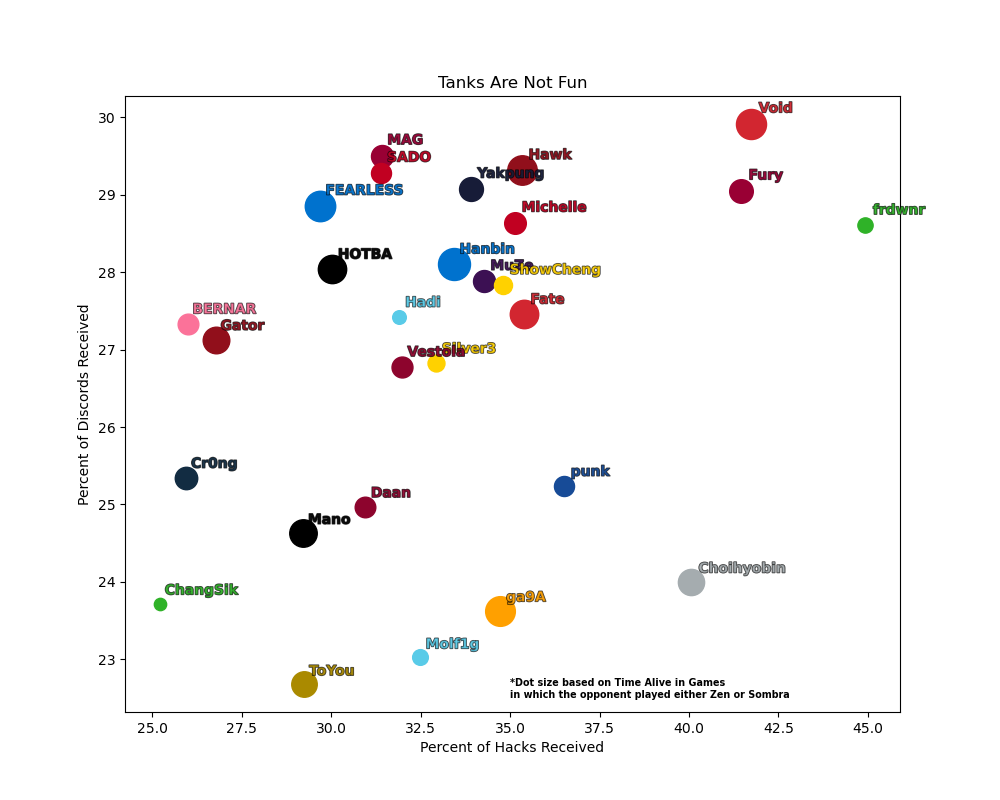
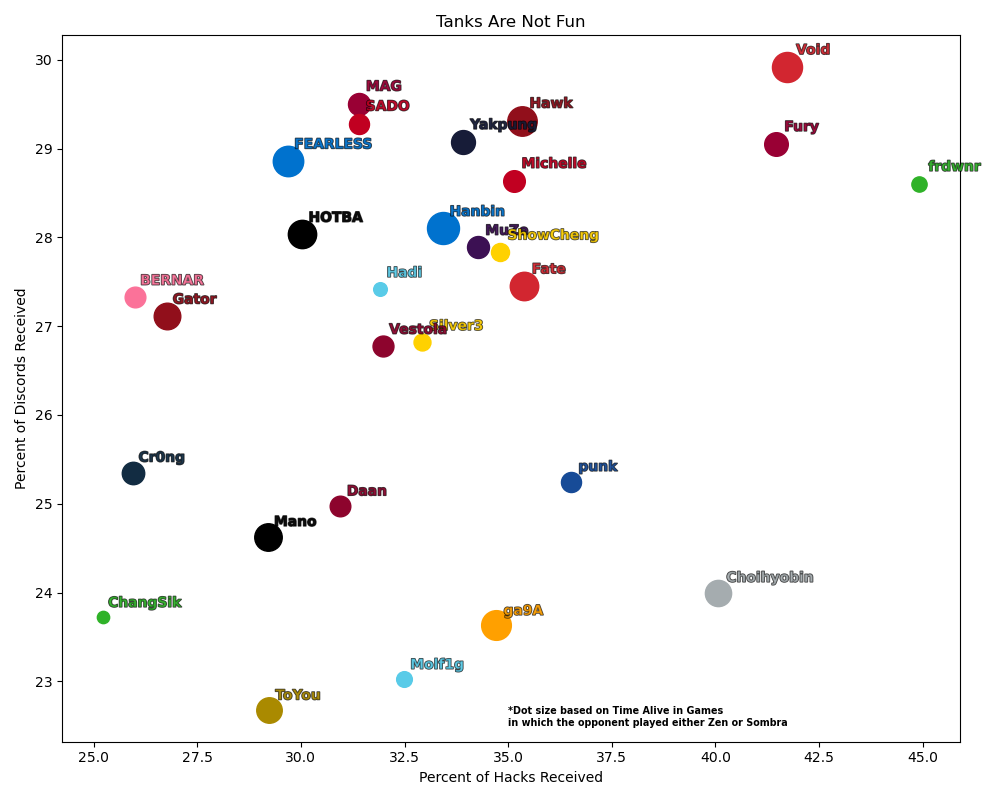
fixing links

diff --git a/plots_2021/discord_usage.py b/plots_2021/discord_usage.py
@@ -374,7 +374,7 @@ plt.ylabel('Percent of Discords Received')
 plt.xlabel('Percent of Hacks Received')
 plt.text(35, 22.5, '*Dot size based on Time Alive in Games\nin which the opponent played either Zen or Sombra',
          weight='bold', size='x-small')
-
+plt.tight_layout()
 plt.savefig('./plots/team/tanks_no_fun2_zoom.png')
 
 
